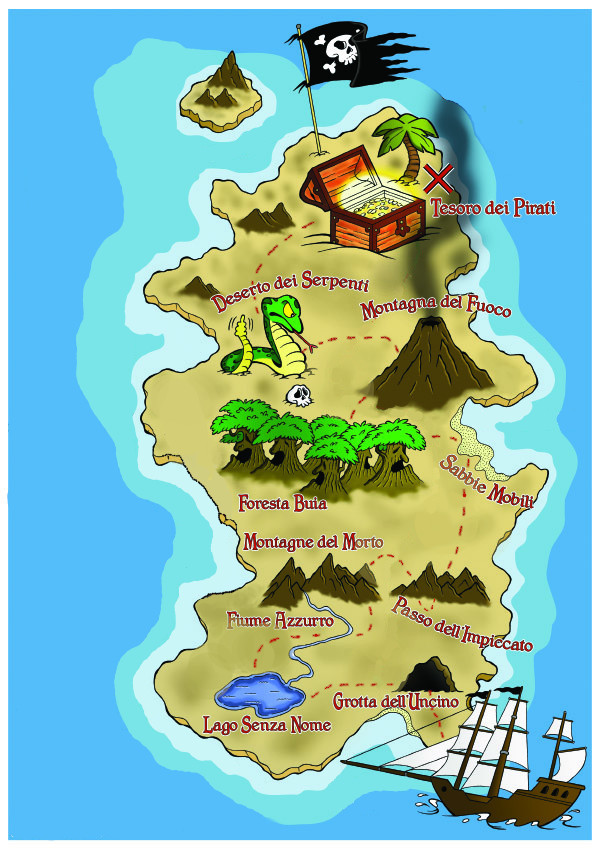
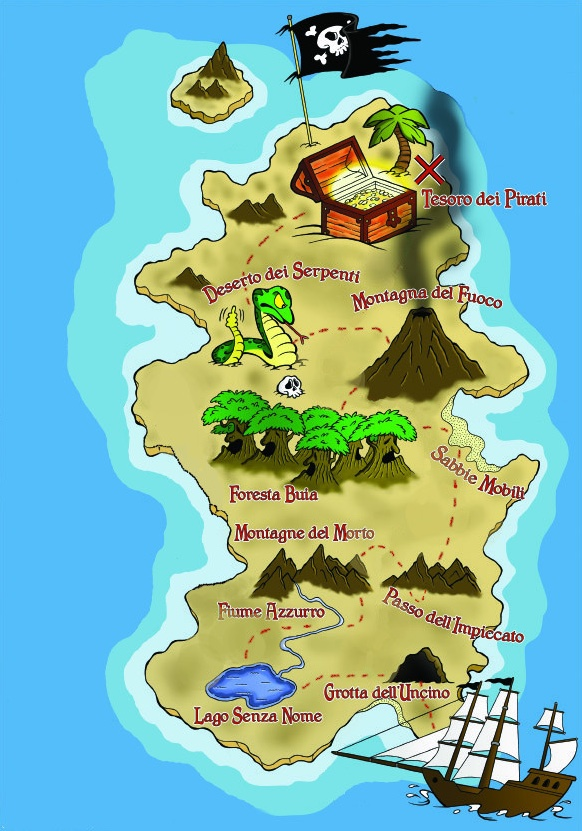
updated template2.json, cropped map.jpg

diff --git a/client_side/css/mission.css b/client_side/css/mission.css
@@ -1,11 +1,11 @@
 body {
-    background-color: #54befa;
+    background-color: #5ABFF7;
     text-align: center;
 }
 
 h1 {
     color:black;
-    text-align: center; 
+    text-align: center;
     font-size:7vh;
     padding-top: 5%;
     font-family: Brush Script MT;
@@ -18,8 +18,8 @@ p {
 
 form {
     color: black;
-    text-align: center; 
-    font-size:4vh; 
+    text-align: center;
+    font-size:4vh;
     padding-top: 5%;
     font-family: Brush Script MT;
 }

diff --git a/client_side/css/map.css b/client_side/css/map.css
@@ -4,6 +4,9 @@
     padding: 0px;
 }
 
+body {
+    background-color: #5ABFF7;
+}
 
 
 .container-fluid {
@@ -11,12 +14,12 @@
 }
 
 .bg-cover{
-    background-color: #54befa;
+    background-color: #5ABFF7;
     min-height: 100vh;
 }
 
 .row {
-    background-color: #54befa;
+    background-color: #5ABFF7;
     background-position: absolute;
 }
 
